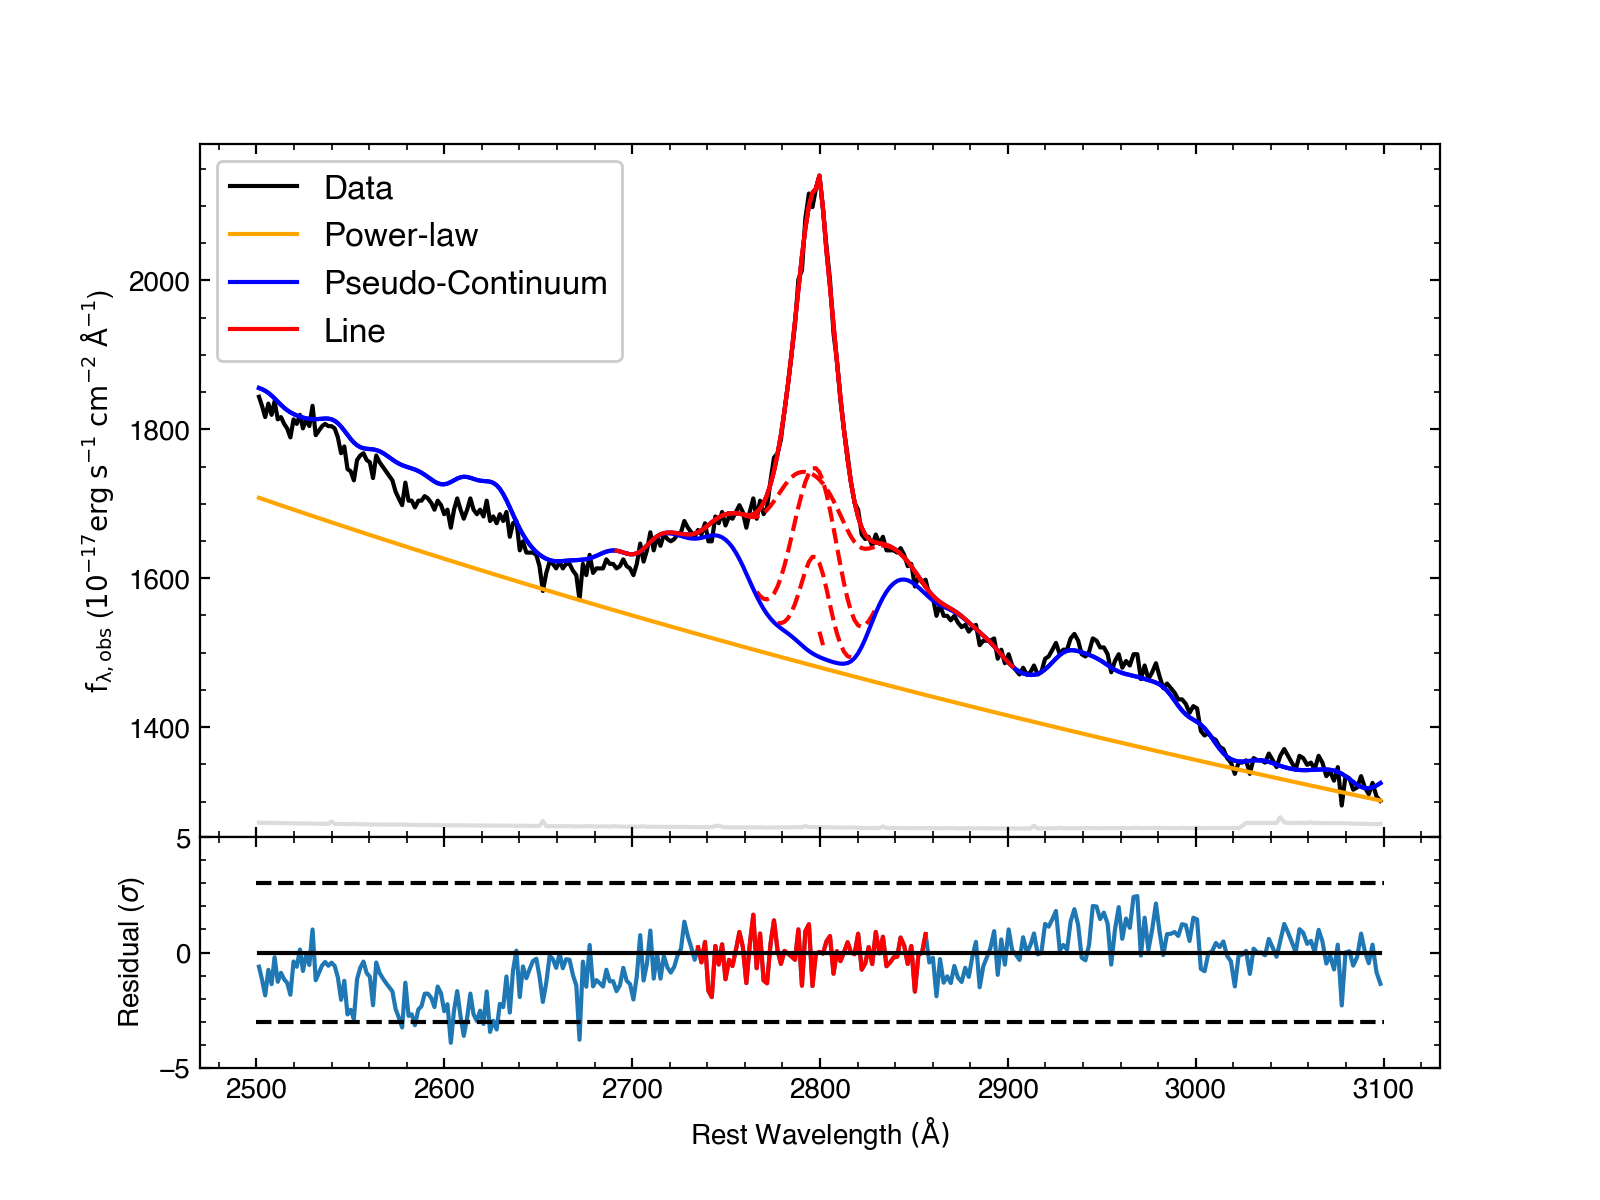
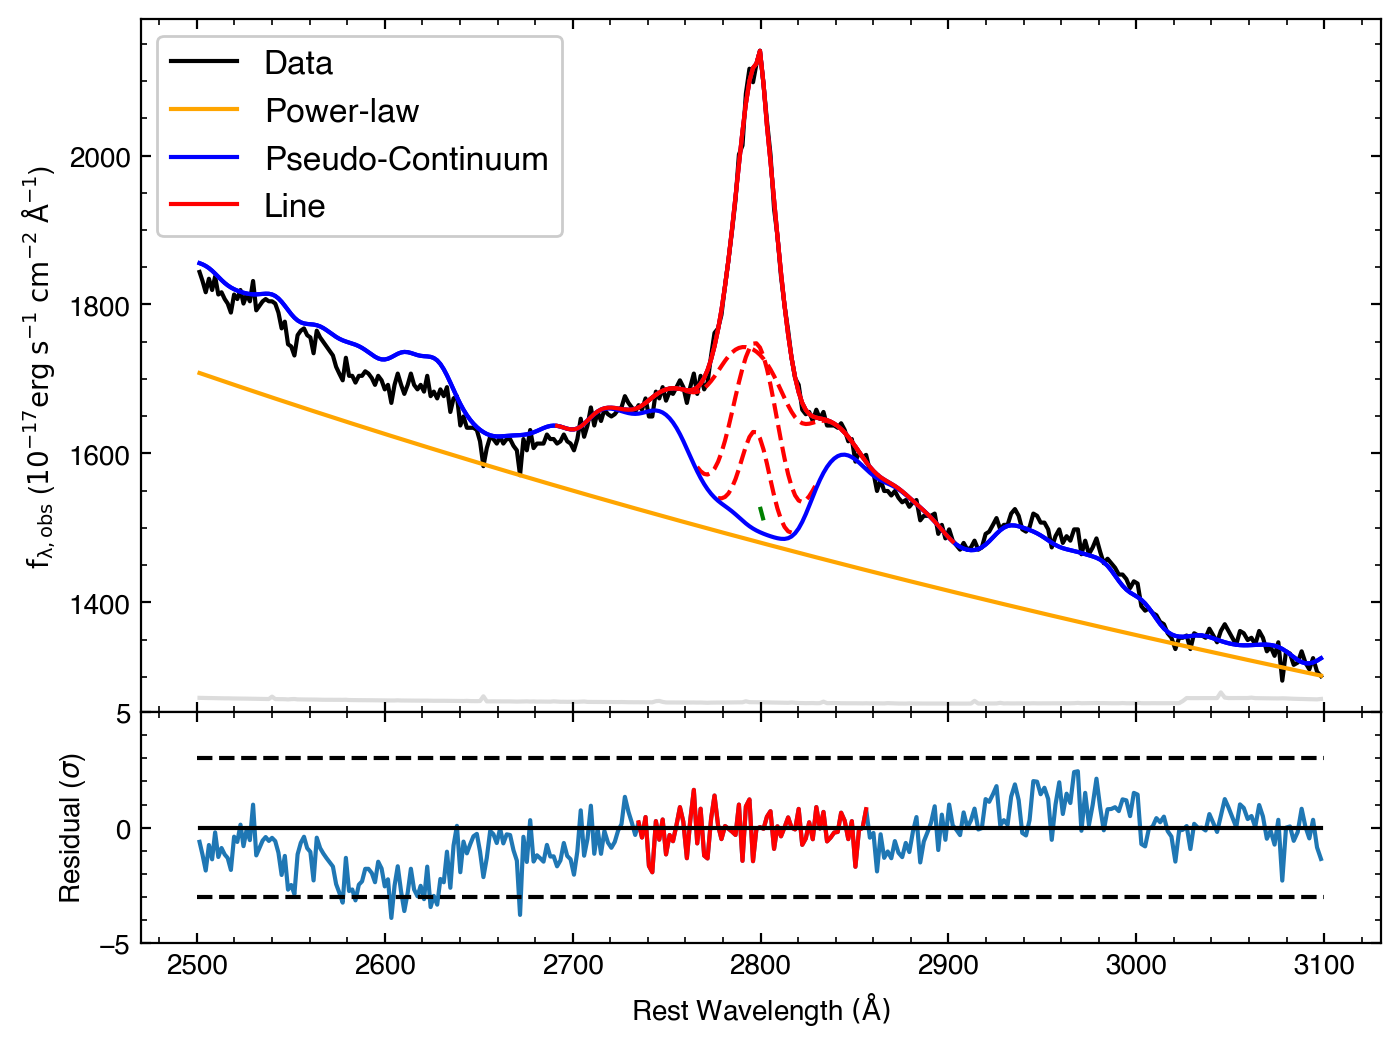
Shift parameters and Line Complex plot

diff --git a/PyQSpecFit.py b/PyQSpecFit.py
@@ -80,7 +80,8 @@ class PyQSpecFit():
 		-----------
 		dataDir: string
 			points to location of csv datafiles setup with columns ['Wavelength', 'Flux', 'eFlux']
-			line models will follow units of the Flux column
+			line models will follow units of the Flux column, but ideally it should be observed erg/s/cm2/Angstrom
+			Wavelength should be in rest-frame.
 		"""
 		
 		self.dataDir = dataDir
@@ -107,9 +108,8 @@ class PyQSpecFit():
 		self.init_fe_op_fwhms = [1200., 1200., 800., 600.]
 	
 	def runFit(self, lineFile, contiWindow, lineWindow, N_fits=1,
-			   normSwitch=True, dataOut=True, syntheticFits=False,
+			   normSwitch=True, dataOut=True, syntheticFits=False, globalLineShift=0,
 			   sig_clip=False, clipSigma=3, clipBoxWidth=50, clipBufferWidth=3,
-			   lineShift=0, allowedShift=30,
 			   useBalmer=False, useFe=False, Fe_uv_ind=0, Fe_opt_ind=0,
 			   dataOutPath='Line_Params/'):
 			
@@ -146,7 +146,7 @@ class PyQSpecFit():
 					if syntheticFits:
 						lams, flux, eflux = self.create_synthetic(lams, flux, eflux)
 
-					if normSwitch:
+					if normSwitch: # almost always keep this toggled
 						self.norm_median = np.nanmedian(flux)
 						flux = flux/self.norm_median
 						eflux = eflux/self.norm_median
@@ -204,19 +204,21 @@ class PyQSpecFit():
 					line_names = pdata_lines['Name']
 					line_wave = pdata_lines['Central Wavelength']
 					line_norms = pdata_lines['Init_Norm']
+					line_shifts = pdata_lines['Allowed_Shift']
 		
-					fwhm_lows = pdata_lines['FWHM_low']
-					fwhm_highs = pdata_lines['FWHM_high']
+					sigma_lows = pdata_lines['Sigma_low']
+					sigma_highs = pdata_lines['Sigma_high']
 
 					# SkewNorm Fitting
 					init_params = []
 					init_parinfo = []
-					self.line_header = ['Skew', 'FWHM', 'Norm', 'Wavelength']
+					self.line_header = ['Skew', 'Sigma', 'Norm', 'Wavelength']
 
 					for index, line in enumerate(line_names):
 						# Line Parameters: Skew, Scale, Norm, Central Wavelength
-						line_init_params = [0., fwhm_lows[index], line_norms[index], line_wave[index]+lineShift]
-						line_parinfo = [{'fixed': True}, {'limits': (fwhm_lows[index], fwhm_highs[index])}, {'limits': (0., 1E2)}, {'limits': (line_wave[index]+lineShift-allowedShift, line_wave[index]+lineShift+allowedShift)}]
+						line_init_params = [0., sigma_lows[index], line_norms[index], line_wave[index]+globalLineShift]
+						line_parinfo = [{'fixed': True}, {'limits': (sigma_lows[index], sigma_highs[index])}, {'limits': (0., 1E2)}, 
+										{'limits': (line_wave[index]+globalLineShift-line_shifts[index], line_wave[index]+globalLineShift+line_shifts[index])}]
 						init_params += line_init_params
 						init_parinfo += line_parinfo
 
@@ -225,7 +227,7 @@ class PyQSpecFit():
 					if sig_clip:
 						mask = self.create_mask_window(xx, lineWindow)
 						xx, yy, e_yy = np.array(xx)[mask], np.array(yy)[mask], np.array(e_yy)[mask]
-						xx, yy, e_yy = self.sigma_mask_buffer(50, 3.0, xx, yy, e_yy, 3)
+						xx, yy, e_yy = self.sigma_mask_buffer(clipBoxWidth, clipSigma, xx, yy, e_yy, clipBufferWidth)
 
 					fitobj = kmpfit.Fitter(residuals=self.residual_line, data=(xx, yy, e_yy, lineWindow))
 					fitobj.parinfo = init_parinfo
@@ -244,13 +246,13 @@ class PyQSpecFit():
 
 
 
-	def evalLineProperties(self, lineFile, fitFile, redshift, monoLumAngstrom = 3000.,
-						   lamWindow=[1200, 8000], lineCompInd = 0,
-						   useBalmer=False, useFe=False, Fe_uv_ind=0, Fe_opt_ind=0,
+	def evalLineProperties(self, lineFile, fitFile, redshift, monoLumAngstrom=3000.,
+						   lamWindow=[1200, 8000], lineCompInd=0,
+						   Fe_uv_ind=0, Fe_opt_ind=0,
 						   outDir='Line_Properties/'):
 		# Assumes flux is in units of erg/s/cm2/Angstrom #
-		self.useBalmer = useBalmer
-		self.useFe = useFe
+		self.useBalmer = True
+		self.useFe = True
 		self.Fe_uv_ind = Fe_uv_ind
 		self.Fe_opt_ind = Fe_opt_ind
 		outName = fitFile.split('/')[-1][:-4]
@@ -259,35 +261,14 @@ class PyQSpecFit():
 		self.cosmo = FlatLambdaCDM(H0=70, Om0=0.3)
 		dl = self.cosmo.luminosity_distance(redshift).to(u.cm)
 		
-		line_list_pdata = pd.read_csv(lineFile)
-		total_line_shape = len(line_list_pdata['Name'])
+		N_gauss, vac_wav, line_index = self.readLineFile(lineFile, lineCompInd)
 
-		line_names, line_wavs = [], []
-		line_indices = []
-		for ind, (name, c_wav) in enumerate(zip(line_list_pdata['Name'].to_numpy(),line_list_pdata['Central Wavelength'])):
-			if name != '' and name != ' ' and not pd.isnull(name):
-				if len(line_names) > 0:
-					line_indices.append(indices)
-				indices = [ind]
-				line_names.append(name)
-				line_wavs.append(c_wav)
-			else:
-				indices.append(ind)
-			if ind == len(line_list_pdata['Name'].to_numpy())-1:
-				line_indices.append(indices)
-
-		#print(line_names, line_wavs, line_indices)
-		vac_wav = line_wavs[lineCompInd]
-		line_index = line_indices[lineCompInd]
-	
 		temp_res_props = [[] for i in res_props_header]
 		temp_res_props_err = [[] for i in res_props_header]
 		lams = np.linspace(lamWindow[0], lamWindow[1], int(np.ptp(lamWindow)*5.))
 	
 		pdata = pd.read_csv(fitFile)
 		
-		N_gauss = total_line_shape
-	
 		rescale = pdata['Norm_Factor'].to_numpy().reshape(int(len(pdata['Norm_Factor'].to_numpy())/N_gauss), N_gauss)
 		conti_header = ['PL_Norm', 'PL_Slope', 'Fe_UV_Norm', 'Fe_UV_FWHM', 'Fe_UV_del', 
 						'Fe_Opt_Norm', 'Fe_Opt_FWHM', 'Fe_Opt_del', 'Balmer_norm', 'Balmer_Te', 'Balmer_tau']
@@ -295,7 +276,7 @@ class PyQSpecFit():
 
 		line_norms = pdata['Norm'].to_numpy().reshape(int(len(pdata['Norm'].to_numpy())/N_gauss), N_gauss)
 		line_wavs = pdata['Wavelength'].to_numpy().reshape(int(len(pdata['Wavelength'].to_numpy())/N_gauss), N_gauss)
-		line_FWHM = pdata['FWHM'].to_numpy().reshape(int(len(pdata['FWHM'].to_numpy())/N_gauss), N_gauss)
+		line_FWHM = pdata['Sigma'].to_numpy().reshape(int(len(pdata['Sigma'].to_numpy())/N_gauss), N_gauss)
 		
 		for index, (norms, wavs, fwhms, contip, rescale_facs) in enumerate(zip(line_norms, line_wavs, line_FWHM, contips, rescale)):
 
@@ -327,6 +308,8 @@ class PyQSpecFit():
 	
 		res_props = [np.nanmean(i) for i in temp_res_props]
 		res_props_err = [np.std(i) for i in temp_res_props]
+		
+		# sigma_clipping is recommended if there are weird anomalous measurements
 		#res_props = [np.nanmean(sigma_clip(i, sigma=3, maxiters=5)) for i in temp_res_props]
 		#res_props_err = [np.std(sigma_clip(i, sigma=3, maxiters=5)) for i in temp_res_props]
 	
@@ -340,11 +323,11 @@ class PyQSpecFit():
 	
 	
 	def plotLineFits(self, data_ax, resid_ax, lineFile, dataFile, fitFile, redshift,
-					 plotWindow=[1200, 8000], dataInd = 0,
-					 useBalmer=False, useFe=False, Fe_uv_ind=0, Fe_opt_ind=0,
+					 plotWindow=[1200, 8000], dataInd=0, lineCompInd=0,
+					 Fe_uv_ind=0, Fe_opt_ind=0,
 					 outDir='Fit_Figs/'):
-		self.useBalmer = useBalmer
-		self.useFe = useFe
+		self.useBalmer = True
+		self.useFe = True
 		self.Fe_uv_ind = Fe_uv_ind
 		self.Fe_opt_ind = Fe_opt_ind
 		
@@ -372,7 +355,7 @@ class PyQSpecFit():
 		atm_trans_plot = atm_trans_plot[np.where(atm_trans_plot < 0.38)]
 	
 		line_list_pdata = pd.read_csv(lineFile)
-		N_gauss = len(line_list_pdata['Name'])
+		N_gauss, vac_wav, line_indices = self.readLineFile(lineFile, lineCompInd)
 	
 		rescale = pdata['Norm_Factor'].to_numpy().reshape(int(len(pdata['Norm_Factor'].to_numpy())/N_gauss), N_gauss)[dataInd]*norm_fac
 		conti_header = ['PL_Norm', 'PL_Slope', 'Fe_UV_Norm', 'Fe_UV_FWHM', 'Fe_UV_del', 
@@ -380,22 +363,25 @@ class PyQSpecFit():
 		contips = np.transpose([pdata[i].to_numpy().reshape(int(len(pdata[i].to_numpy())/N_gauss), N_gauss) for i in conti_header])[0][dataInd]
 		line_norms = pdata['Norm'].to_numpy().reshape(int(len(pdata['Norm'].to_numpy())/N_gauss), N_gauss)[dataInd]
 		line_wavs = pdata['Wavelength'].to_numpy().reshape(int(len(pdata['Wavelength'].to_numpy())/N_gauss), N_gauss)[dataInd]
-		line_FWHM = pdata['FWHM'].to_numpy().reshape(int(len(pdata['FWHM'].to_numpy())/N_gauss), N_gauss)[dataInd]
+		line_FWHM = pdata['Sigma'].to_numpy().reshape(int(len(pdata['Sigma'].to_numpy())/N_gauss), N_gauss)[dataInd]
 	
 		line_profiles = []
 		conti_profile = self.eval_conti_all(contips, lams)*rescale[0]
 		PL_profile = self.eval_PL(contips, lams)*rescale[0]
 	
 		for line_index, (norm, wav, fwhm, rescale_fac) in enumerate(zip(line_norms, line_wavs, line_FWHM, rescale)):
-			temp_line = self.eval_line_full([0, fwhm, norm, wav], lams)*rescale_fac
-		
 			if norm == 0:
 				continue
+			temp_line = self.eval_line_full([0, fwhm, norm, wav], lams)*rescale_fac
 			current_inset_window = np.clip(lams[np.where(temp_line > 0.01*np.nanmax(temp_line))], plotWindow[0], plotWindow[1])
 			current_inset_window = np.array([np.nanmin(current_inset_window), np.nanmax(current_inset_window)])
+			if line_index in line_indices:
+				dashed_color = 'r'
+			else:
+				dashed_color = 'g'
 			data_ax.plot(lams[np.logical_and(lams>current_inset_window[0], lams<current_inset_window[1])], 
 									 (conti_profile+temp_line)[np.logical_and(lams>current_inset_window[0], lams<current_inset_window[1])],
-									 '--', c = 'r')
+									 '--', c = dashed_color)
 
 			line_profiles.append(temp_line)
 
@@ -724,8 +710,28 @@ class PyQSpecFit():
 				out_header = ['Filename', 'Name', 'Norm_Factor'] + list(self.line_header) + list(self.conti_header)
 				self.write_to_file(dataout_filename, out_header, data_row)
 
-	
+	def readLineFile(self, lineFile, lineCompInd):
+		line_list_pdata = pd.read_csv(lineFile)
+		N_gauss = len(line_list_pdata['Name'])
 
+		line_names, line_wavs = [], []
+		line_indices = []
+		for ind, (name, c_wav) in enumerate(zip(line_list_pdata['Name'].to_numpy(),line_list_pdata['Central Wavelength'])):
+			if name != '' and name != ' ' and not pd.isnull(name):
+				if len(line_names) > 0:
+					line_indices.append(indices)
+				indices = [ind]
+				line_names.append(name)
+				line_wavs.append(c_wav)
+			else:
+				indices.append(ind)
+			if ind == len(line_list_pdata['Name'].to_numpy())-1:
+				line_indices.append(indices)
+
+		#print(line_names, line_wavs, line_indices)
+		vac_wav = line_wavs[lineCompInd]
+		line_index = line_indices[lineCompInd]
+		return [N_gauss, vac_wav, line_index]
 
 
 

diff --git a/example.py b/example.py
@@ -26,13 +26,13 @@ example = PyQSpecFit.PyQSpecFit()
 #example.runFit(line_path, conti_windows, line_fit_MgII, N_fits = 10, syntheticFits=True, useFe=True)
 
 # Evaluate line #
-example.evalLineProperties(line_path, 'Line_Params/example.csv', 0.83, useFe=True)
+#example.evalLineProperties(line_path, 'Line_Params/example.csv', 0.83)
 
 # Create plots #
-#fig, axs = plt.subplots(2,1, figsize=(8, 6), gridspec_kw=dict(height_ratios=[3,1], width_ratios=[1]), sharex=True)
-#plt.subplots_adjust(wspace= 0.30, hspace= 0.00)
-#example.plotLineFits(axs[0], axs[1], line_path, 'data/example.csv', 'Line_Params/example.csv', 0.83, plotWindow=[2500, 3100], useFe=True)
-#plt.show()
+fig, axs = plt.subplots(2,1, figsize=(8, 6), gridspec_kw=dict(height_ratios=[3,1], width_ratios=[1]), sharex=True)
+plt.subplots_adjust(wspace= 0.30, hspace= 0.00)
+example.plotLineFits(axs[0], axs[1], line_path, 'data/example.csv', 'Line_Params/example.csv', 0.83, plotWindow=[2500, 3100])
+plt.savefig('Fit_Figs/example.png', dpi=200, bbox_inches='tight')
 
 
 
